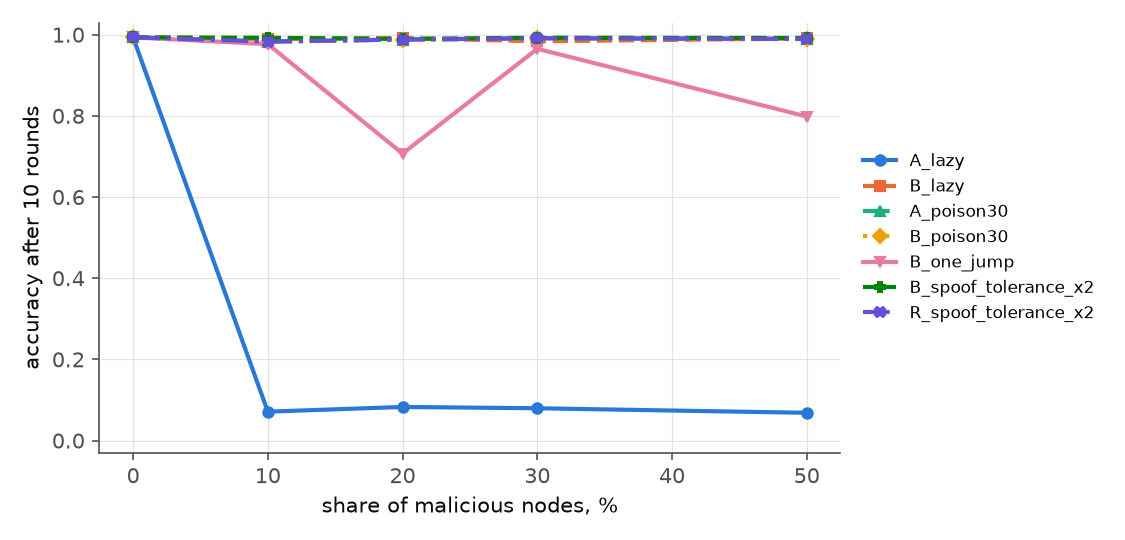
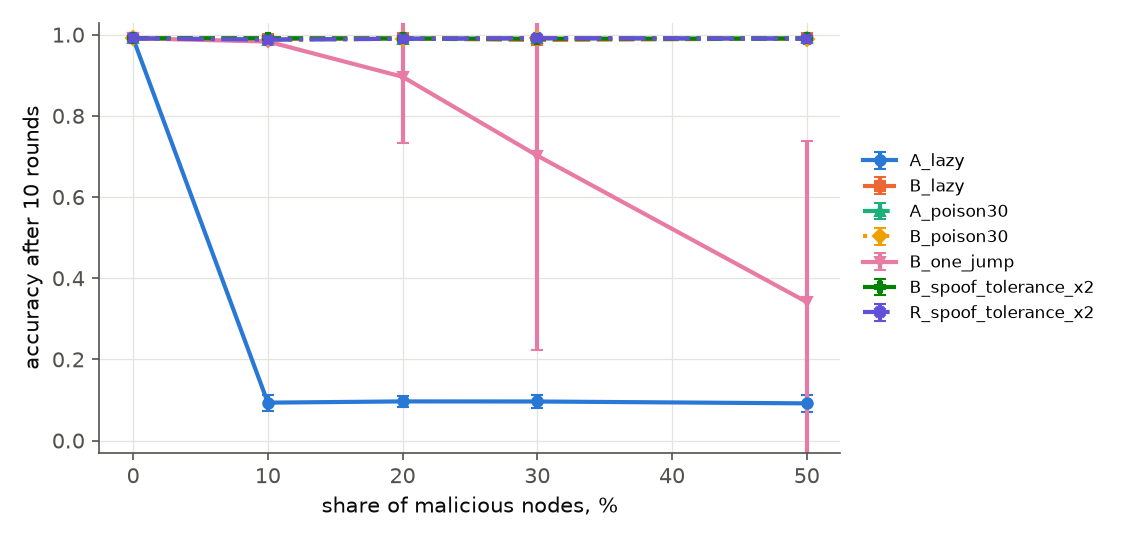
feat(sim): E4 parameter sweep; results with seed repeats, E6 and the arena
E4 varies q, k, the metric sample size, the replica count and the gradient
threshold one at a time. The results document now reports E3 and E5 over
three seeds with standard deviations, the Fashion-MNIST repeat of the
matrix, and the arena scoreboard with three validators.

diff --git a/sim/sweep_e4.py b/sim/sweep_e4.py
@@ -1,0 +1,108 @@
+"""Experiment E4: verification parameters versus detection, false rejections and cost.
+
+Axes (one at a time, the rest at defaults):
+  B.q      — transitions recomputed per validator (k = 20, m = 10)
+  B.k      — checkpoint interval at fixed K = 200 (validator on another device, so FRR is visible)
+  A.subset — validation sample size for the metric check
+  C.n      — number of replicas
+  D.tau    — gradient-consistency threshold
+
+python -m sim.sweep_e4 --out experiments/runs/e4
+"""
+import argparse
+import csv
+import json
+import os
+import random
+from collections import defaultdict
+
+from sim.core import Task
+from sim.matrix import build_blocks, warm_states
+from sim.mechanisms import run
+from sim.provenance import write_manifest
+from sim.verify_stats import wilson
+from worker.data import load_dataset, val_set
+from worker.train import accuracy, to_micro
+
+SUITE = [("honest", {}), ("lazy", {}), ("metric_lie", {"inflate": 0.02}), ("partial", {"frac": 0.5}),
+         ("partial", {"frac": 0.9}), ("one_jump", {}), ("spoof_tolerance", {"mix": 0.0})]
+
+AXES = (
+    [{"axis": "B.q", "value": q, "mech": "B", "params": {"B": {"q": q}}, "k": 20} for q in (1, 2, 3, 5)]
+    + [{"axis": "B.k", "value": k, "mech": "B", "params": {"B": {"q": 2}}, "k": k, "validator": "mps"}
+       for k in (10, 20, 50)]
+    + [{"axis": "A.subset", "value": s, "mech": "A", "params": {"A": {"subset": s}}, "k": 20}
+       for s in (200, 1000, 5000)]
+    + [{"axis": "C.n", "value": n, "mech": "C", "params": {"C": {"replicas": n}}, "k": 20} for n in (3, 5)]
+    + [{"axis": "D.tau", "value": t, "mech": "D", "params": {"D": {"tau": t}}, "k": 20} for t in (0.0, 0.1, 0.2)]
+)
+
+
+def main() -> None:
+    ap = argparse.ArgumentParser()
+    ap.add_argument("--out", default="experiments/runs/e4")
+    ap.add_argument("--dataset", default="mnist")
+    ap.add_argument("--task-seeds", default="42,43")
+    ap.add_argument("--starts", default="0,3")
+    ap.add_argument("--trials", type=int, default=3)
+    ap.add_argument("--K", type=int, default=200)
+    args = ap.parse_args()
+
+    os.makedirs(args.out, exist_ok=True)
+    write_manifest(args.out, vars(args))
+    ds = load_dataset(args.dataset)
+    starts = [int(s) for s in args.starts.split(",")]
+    cache = {}  # (k, seed_mode, task_seed, r, trial) → blocks, so axes share the same blocks
+    rows = []
+    for cfg in AXES:
+        task = Task(ds, args.K, cfg["k"])
+        vtask = task.on(cfg.get("validator", "cpu"))
+        seed_mode = "task" if cfg["mech"] == "C" else "miner"
+        for task_seed in [int(s) for s in args.task_seeds.split(",")]:
+            for r, (w_start, prev) in warm_states(task, task_seed, starts).items():
+                params = {**cfg["params"]}
+                if cfg["mech"] == "A":
+                    params["A"] = {"prev_metric_micro": to_micro(accuracy(w_start, *val_set(ds))), **params["A"]}
+                for trial in range(args.trials):
+                    key = (cfg["k"], seed_mode, task_seed, r, trial)
+                    if key not in cache:
+                        cache[key] = build_blocks(task, SUITE, w_start, prev, r, trial, seed_mode, True)[1]
+                    for lab, kind, blk in cache[key]:
+                        rng = random.Random(f"{cfg['axis']}/{cfg['value']}/{task_seed}/{r}/{trial}/{lab}")
+                        v = run(cfg["mech"], vtask, blk, w_start, rng, params)
+                        rows.append({"axis": cfg["axis"], "value": cfg["value"], "attack": lab, "kind": kind,
+                                     "rejected": int(v.rejected), "verify_steps": v.cost_steps, "K": args.K})
+        print(f"{cfg['axis']}={cfg['value']} done", flush=True)
+
+    with open(os.path.join(args.out, "e4.csv"), "w", newline="") as f:
+        w = csv.DictWriter(f, fieldnames=list(rows[0]))
+        w.writeheader()
+        w.writerows(rows)
+    summarize(rows, args.out)
+
+
+def summarize(rows, out_dir) -> None:
+    rej, n, cost = defaultdict(int), defaultdict(int), defaultdict(list)
+    for x in rows:
+        key = (x["axis"], x["value"], x["attack"])
+        rej[key] += x["rejected"]
+        n[key] += 1
+        cost[x["axis"], x["value"]].append(x["verify_steps"] / x["K"])
+    table = defaultdict(dict)
+    for (axis, value, attack), hits in rej.items():
+        lo, hi = wilson(hits, n[axis, value, attack])
+        table[f"{axis}={value}"][attack] = {"rate": hits / n[axis, value, attack], "ci": [lo, hi]}
+    for (axis, value), cs in cost.items():
+        table[f"{axis}={value}"]["cost_K"] = sum(cs) / len(cs)
+    with open(os.path.join(out_dir, "summary.json"), "w") as f:
+        json.dump(table, f, indent=2)
+    attacks = list(dict.fromkeys(x["attack"] for x in rows))
+    print("\nrejected share per setting (honest = FRR); cost as a fraction of K")
+    print(f"{'setting':16s}" + "".join(f"{a[:14]:>15s}" for a in attacks) + f"{'cost':>8s}")
+    for setting, per in table.items():
+        cells = "".join(f"{per[a]['rate']:15.2f}" if a in per else f"{'-':>15s}" for a in attacks)
+        print(f"{setting:16s}{cells}{per['cost_K']:8.3f}")
+
+
+if __name__ == "__main__":
+    main()

diff --git a/docs/results.md b/docs/results.md
@@ -1,4 +1,4 @@
-# Результати експериментів (27.10.2026)
+# Результати експериментів (оновлено 28.10.2026)
 
 Стенд: CNN для MNIST (85 910 параметрів), блок K = 200 кроків SGD (lr = 0,05, B = 64), контрольна точка кожні
 k = 20 кроків (m = 10 переходів). Mac M5: майнер на CPU, валідатори на CPU або MPS. Порогове правило B
@@ -86,43 +86,104 @@ FRR D = 0,11.
 5. **A сам по собі слабкий:** ловить лише брехню про метрику і груби отруєння; ліниве повторення проходить.
 6. **D дешевий, але неточний:** 7–11 % хибних відхилень і пропускає плагіат та 5a.
 
+## E4. Параметри перевірки
+
+Одна вісь за раз, решта за замовчуванням; 2 task_seed × 2 стани × 3 повтори = 12 блоків на клітинку, один
+валідатор (інтервали широкі, ±0,25 — дивитися на тенденції). Частка відхилених блоків:
+
+| Налаштування | сумлінний (FRR) | лінивий | часткова 50 % | часткова 90 % | один стрибок | 5c | Вартість, частка K |
+|---|---|---|---|---|---|---|---|
+| B, q = 1 / 2 / 3 / 5 | 0 | 1 | 0,50 / 0,75 / 1 / 1 | 0,08 / 0,08 / 0,42 / 0,33 | 0 / 0,08 / 0,25 / 0,58 | 0 | 0,1 / 0,2 / 0,3 / 0,5 |
+| B, k = 10 / 20 / 50 (валідатор на MPS) | 0 | 1 | 0,75 / 1 / 0,83 | 0,17 / 0,25 / 0 | 0,17 / 0,50 / 0,42 | 0 / 0,08 / 0,08 | 0,1 / 0,2 / 0,5 |
+| A, підвибірка 200 / 1000 / 5000 | 0,17 / 0 / 0 | ≈ 0 | 0,42 / 0,33 / 0,25 | — | 0,92 / 0,50 / 0,50 | ≈ 0 | 0,005 / 0,03 / 0,13 |
+| C, n = 3 / 5 | 0 | 1 | 1 | 1 | 1 | 1 | 2 / 4 |
+| D, τ = 0 / 0,1 / 0,2 | 0 / 0 / 0,17 | 0,83 / 1 / 1 | 0,75 / 0,83 / 0,83 | — | 0,08 / 0,50 / 0,42 | 0 | 0,04 |
+
+Висновки:
+- **q — головний важіль проти «одного стрибка»:** виявлення одним валідатором росте приблизно як q/m
+  (0 → 0,58 при q = 1 → 5, теорія 0,1 → 0,5), вартість — лінійно (q·k).
+- **k:** при α = 0,05 хибних відхилень немає навіть для k = 50 на іншому пристрої, але дрібніші переходи (k = 10)
+  дешевші на перевірку; запас порогу для k = 50 малий (E1), тому рекомендовано k ≤ 20.
+- **A:** мала підвибірка (200) дає 17 % хибних відхилень через шум оцінки точності; 1000–5000 — нуль. Завищення
+  метрики на 2 пункти ловиться тим частіше, чим більша підвибірка (0,42 → 0,75).
+- **C:** ловить усе вже за n = 3; n = 5 лише подвоює вартість.
+- **D:** τ = 0,1 — найкращий компроміс; τ = 0,2 уже дає хибні відхилення.
+
 ## E5. Шкода атаки на толерантність залежно від порогу α
 
-6 вузлів, з них 2 атакувальники 5c з удвічі швидшим залізом (виграють перегони приблизно в половині раундів),
-15 раундів, 3 валідатори на блок.
+6 вузлів, з них 2 атакувальники 5c з удвічі швидшим залізом, 15 раундів, 3 валідатори на блок,
+3 повтори (seed 0–2, різні task_seed); точність — середнє ± стандартне відхилення.
 
-| Механізм | α | Точність після 15 раундів | Раунди, виграні атакувальниками |
-|---|---|---|---|
-| без атакувальників | — | 0,989 | 0 |
-| B | 0,01 / 0,05 / 0,1 / 0,3 | 0,990 / 0,994 / 0,994 / 0,993 | 47 % у всіх |
-| R | 0,01 / 0,05 / 0,1 / 0,3 | 0,994 у всіх | 0 % (відхилено 100 % блоків 5c) |
+| Механізм | α | Точність після 15 раундів | Раунди, виграні атакувальниками | Блоки 5c, відхилені |
+|---|---|---|---|---|
+| без атакувальників | — | 0,989 ± 0,001 | 0 | — |
+| B | 0,01 / 0,05 / 0,1 / 0,3 | 0,991 / 0,993 / 0,993 / 0,992 (± ≤ 0,003) | 27 % у всіх | 0 % |
+| R | 0,01 / 0,05 / 0,1 / 0,3 | 0,994 ± 0,001 у всіх | 0 % | 100 % |
 
 ![E5](figures/e5_accuracy.png)
 
 **Висновок:** у цьому стенді навіть широкий поріг α = 0,3 не дає атакувальникові 5c помітно зіпсувати модель:
-сумлінні блоки між його блоками виправляють зсув. Проте він отримує ~47 % нагород, не виконуючи корисної
+сумлінні блоки між його блоками виправляють зсув. Проте він отримує ~27 % нагород, не виконуючи корисної
 роботи понад чесну (його блок дорожчий), — тобто 5c тут атака на розподіл нагород, а не на якість.
 R відсікає її повністю за тієї ж вартості, що й B.
 
 ## E3. Частка зловмисних вузлів
 
-10 вузлів, 10 раундів, 3 валідатори на блок, один прогін на клітинку (тому значення точності шумні).
+10 вузлів, 10 раундів, 3 валідатори на блок, 3 повтори (seed 0–2); точність — середнє ± стандартне відхилення.
 
 | Сценарій | 0 % | 10 % | 20 % | 30 % | 50 % |
 |---|---|---|---|---|---|
-| A, лінивий: точність | 0,993 | 0,071 | 0,083 | 0,080 | 0,068 |
+| A, лінивий: точність | 0,991 ± 0,003 | 0,093 ± 0,020 | 0,096 ± 0,013 | 0,096 ± 0,017 | 0,092 ± 0,021 |
 | A, лінивий: виграні раунди | 0 | 100 % | 100 % | 100 % | 100 % |
-| B, лінивий: точність | 0,993 | 0,989 | 0,991 | 0,984 | 0,991 |
-| B, один стрибок: точність | 0,993 | 0,977 | 0,707 | 0,965 | 0,798 |
-| B, один стрибок: виграні раунди | 0 | 10 % | 10 % | 10 % | 30 % |
+| B, лінивий: точність | 0,991 | 0,990 | 0,991 | 0,987 | 0,991 |
+| A / B, отруєння 30 %: точність | 0,991 | 0,988 | 0,990 | 0,991 | 0,990 |
+| B, один стрибок: точність | 0,991 | 0,983 ± 0,007 | 0,896 ± 0,164 | 0,702 ± 0,479 | 0,341 ± 0,396 |
+| B, один стрибок: виграні раунди | 0 | 7 % | 3 % | 13 % | 40 % |
+| B, 5c (×2 швидкість): виграні раунди | 0 | 7 % | 17 % | 43 % | 43 % |
 | R, 5c (×2 швидкість): виграні раунди | 0 | 0 | 0 | 0 | 0 |
-| B, 5c (×2 швидкість): виграні раунди | 0 | 10 % | 10 % | 40 % | 50 % |
 
 ![E3](figures/e3_accuracy.png)
 
 **Висновки:** з одним лише механізмом A мережа зупиняється навіть при 10 % лінивих вузлів: вони подають блок
-першими, і A їх пропускає. З B ліниві вузли не виграють жодного раунду. Один стрибок проходить B і за 20–50 %
-атакувальників знижує точність на 20–30 пунктів.
+першими, і A їх пропускає. З B ліниві вузли й отруювачі не виграють жодного раунду. Один стрибок проходить B:
+за 50 % атакувальників середня точність падає до 0,34, а в окремих повторах модель руйнується повністю
+(великий розкид — один виграний стрибок псує модель, і її відновлення залежить від того, хто виграє далі).
+
+## E6. Узагальнення: Fashion-MNIST
+
+Та сама матриця на Fashion-MNIST (1 task_seed × 3 стани × 3 повтори = 9 блоків на клітинку, репліки C на CPU і MPS).
+
+| Атака | A | B | R | C | D | Шкода |
+|---|---|---|---|---|---|---|
+| **сумлінний (FRR)** | 0,11 | 0 | 0 | 0 | 0,11 | — |
+| лінивий | 0 | 1 | 1 | 1 | 1 | 0,19 |
+| плагіат | 0,11 | 1 | 1 | 1 | 0,22 | 0 |
+| часткова робота 90 % | 0 | 0,22 | 0,11 | 1 | 0 | 0 |
+| отруєння, 30 % міток | 0,44 | 1 | 1 | 1 | 0,44 | 0,06 |
+| 5c, зсув до цілі | 0 | 0 | 0,89 | 1 | 0 | 0 |
+| один стрибок | 0,67 | 0,22 | 0,33 | 1 | 0 | 0,32 |
+
+Висновки E2 зберігаються: B і R не відхиляють чесних блоків і ловлять усі атаки без роботи; один стрибок
+проходить B у ~78 % випадків; R ловить 5c; A і D дають хибні відхилення (11 %).
+
+## Арена: адаптивні стратегії
+
+`python -m sim.arena --validators 3` — 7 стратегій, 2 task_seed × 2 стани × 3 повтори = 12 блоків на клітинку,
+3 незалежні валідатори на блок. Частка блоків, що **пройшли** перевірку:
+
+| Стратегія | A | B | R | C | D | Робота, частка K | Шкода |
+|---|---|---|---|---|---|---|---|
+| сумлінна | 1 | 1 | 1 | 1 | 1 | 1,00 | 0 |
+| лінива | 1 | 0 | 0 | 0 | 0 | 0 | 0,42 |
+| екстраполяція (2 переходи чесно) | 0,50 | 0 | 0 | 0 | 0 | 0,20 | 0,50 |
+| один стрибок | 0,50 | 0,67 | 0,42 | 0 | 0,50 | 1,00 | 0,32 |
+| м'який стрибок (p = 0,3, lr × 3) | 0,83 | 0,75 | 0,25 | 0 | 0,58 | 1,00 | 0,005 |
+| 5c, зсув до цілі | 1 | 1 | 0 | 0 | 1 | 2,00 | 0,001 |
+| 5c з камуфляжем проти R | 1 | 1 | 1 | 0 | 1 | 2,00 | 0,001 |
+
+Висновки: жодна стратегія, що економить роботу, не проходить B; шкідливі стратегії, що проходять B, — це
+«стрибки» (рятує лише більше q·V або C), а атаки на поріг проходять B, але майже не шкодять. Камуфльована 5c
+обходить і R — це межа запропонованого тесту. C ловить усе ціною подвоєння обчислень.
 
 ## Економіка обману
 
@@ -153,8 +214,8 @@ s — частка валідаторів, які «лінуються» і пр
 
 ## Обмеження
 
-- Одна мала модель і MNIST; Fashion-MNIST, T4 та інше залізо ще не прогнані (E6, E1 на T4).
-- E3 і E5 — по одному прогону на клітинку; потрібні повтори з кількома seed.
+- Одна мала CNN; MNIST і Fashion-MNIST; «інше залізо» — лише CPU ↔ MPS на одному Mac (T4 — `docs/kaggle.md`).
+- E3, E5 — 3 повтори, E6 — 9 блоків на клітинку: інтервали для частот ще широкі.
 - 5c атакує лише в напрямку моделі з перекрученими мітками; цільові атаки (бекдор) можуть бути шкідливішими.
 - Адаптивного атакувальника, який одночасно обходить B і R, не досліджено повністю (лише змішування напрямку).
 - Економічна модель спрощена: однакова швидкість чесних майнерів, фіксована нагорода.
